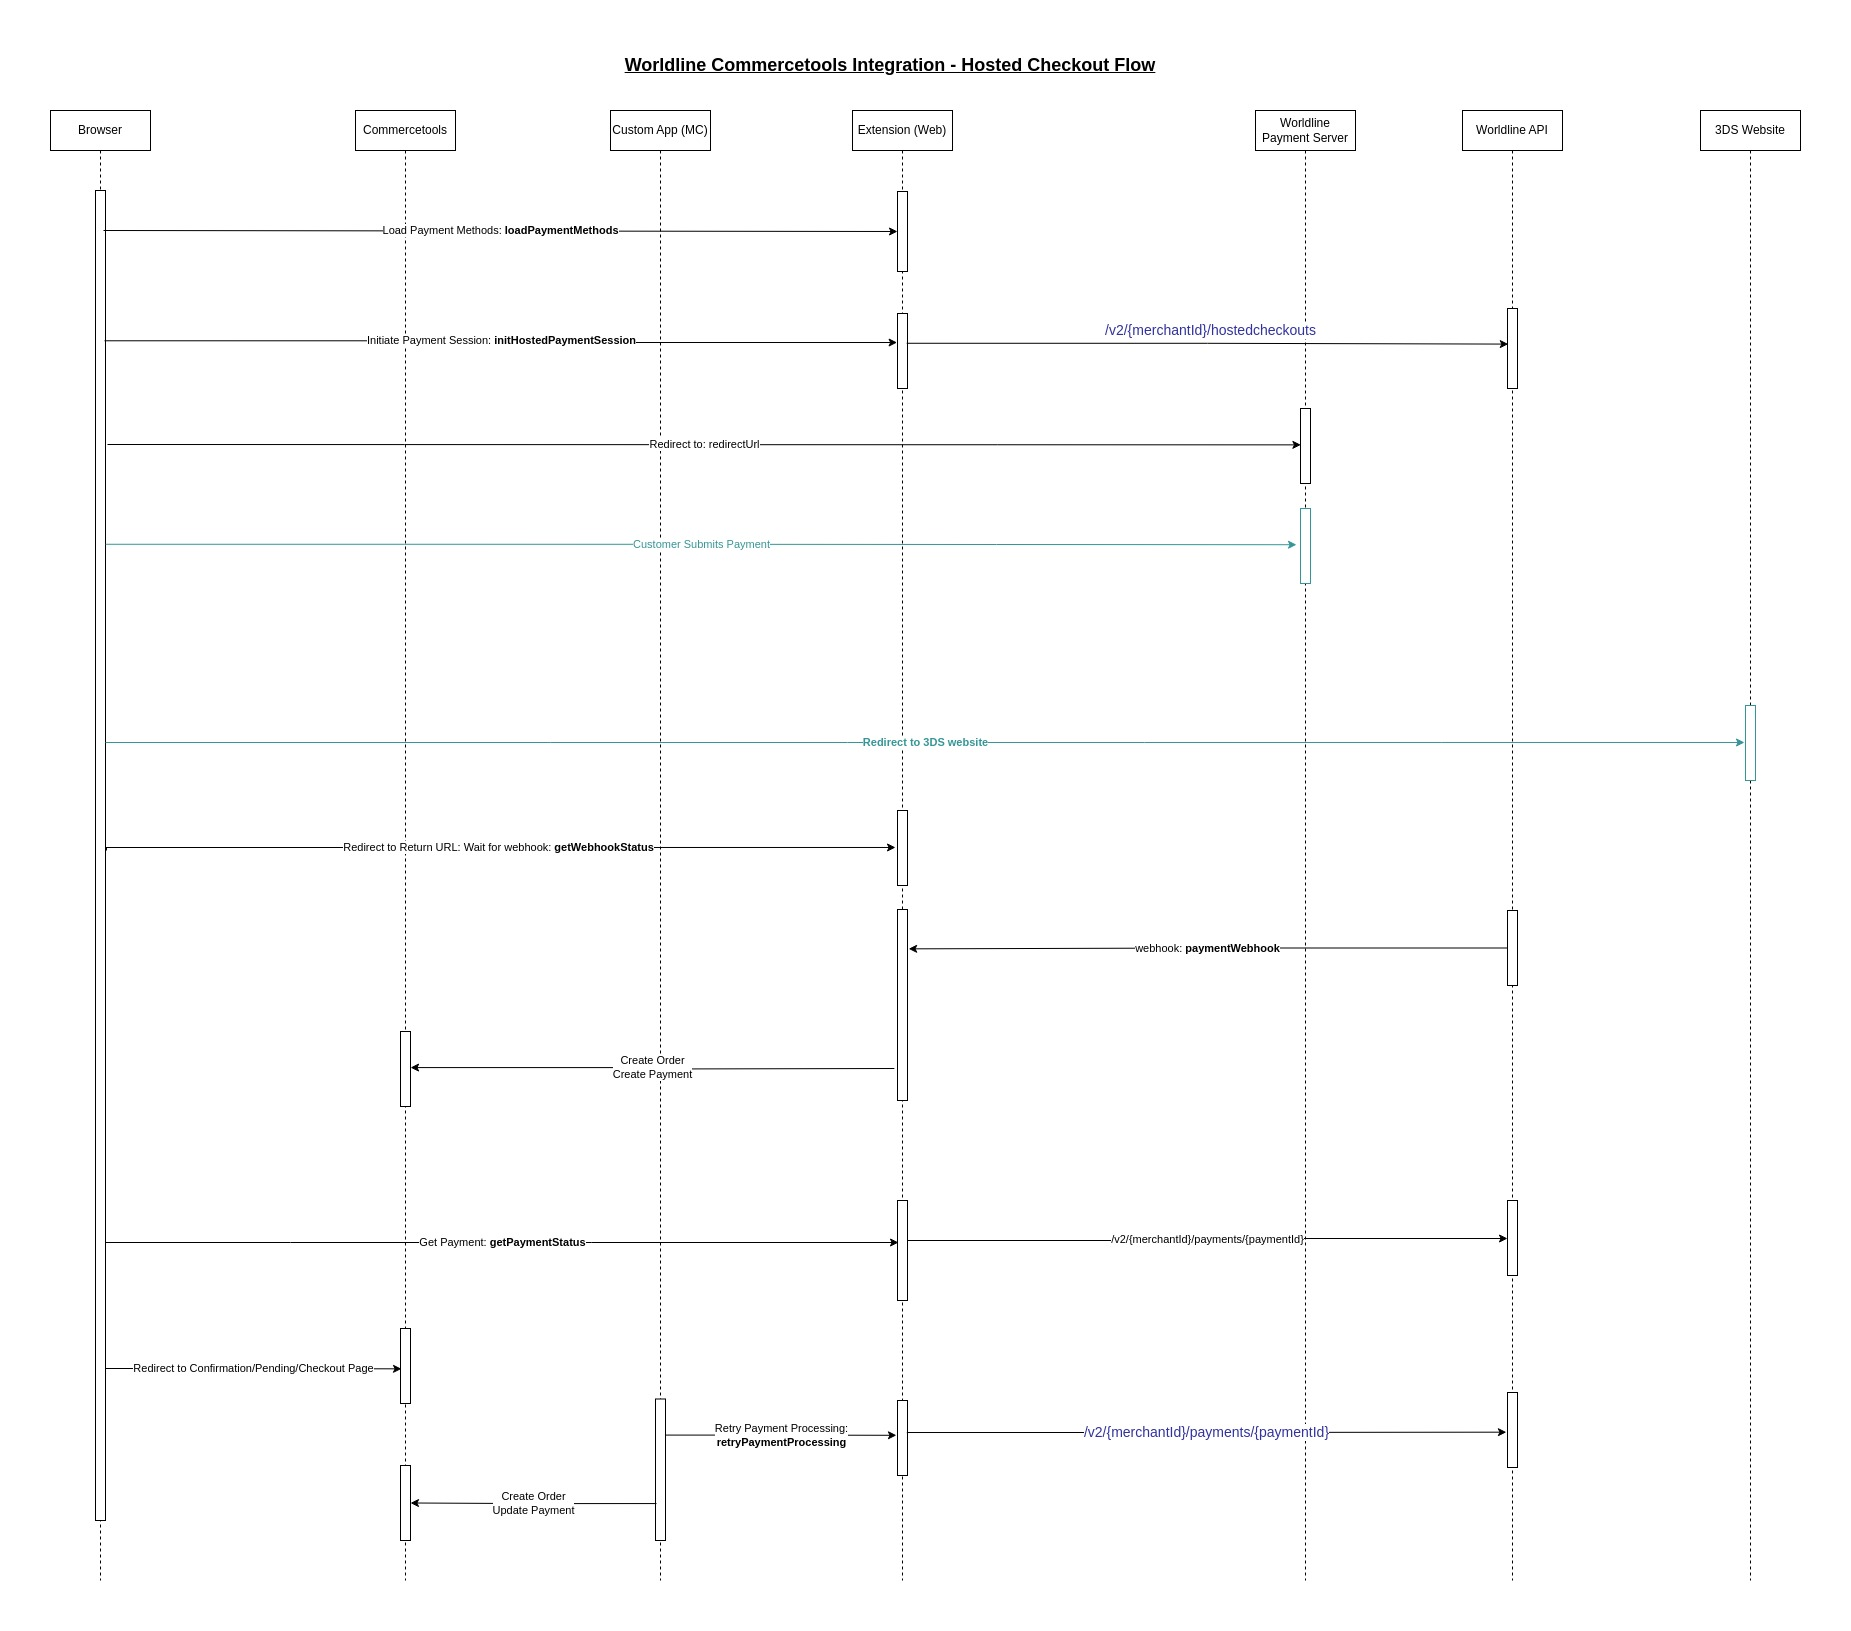
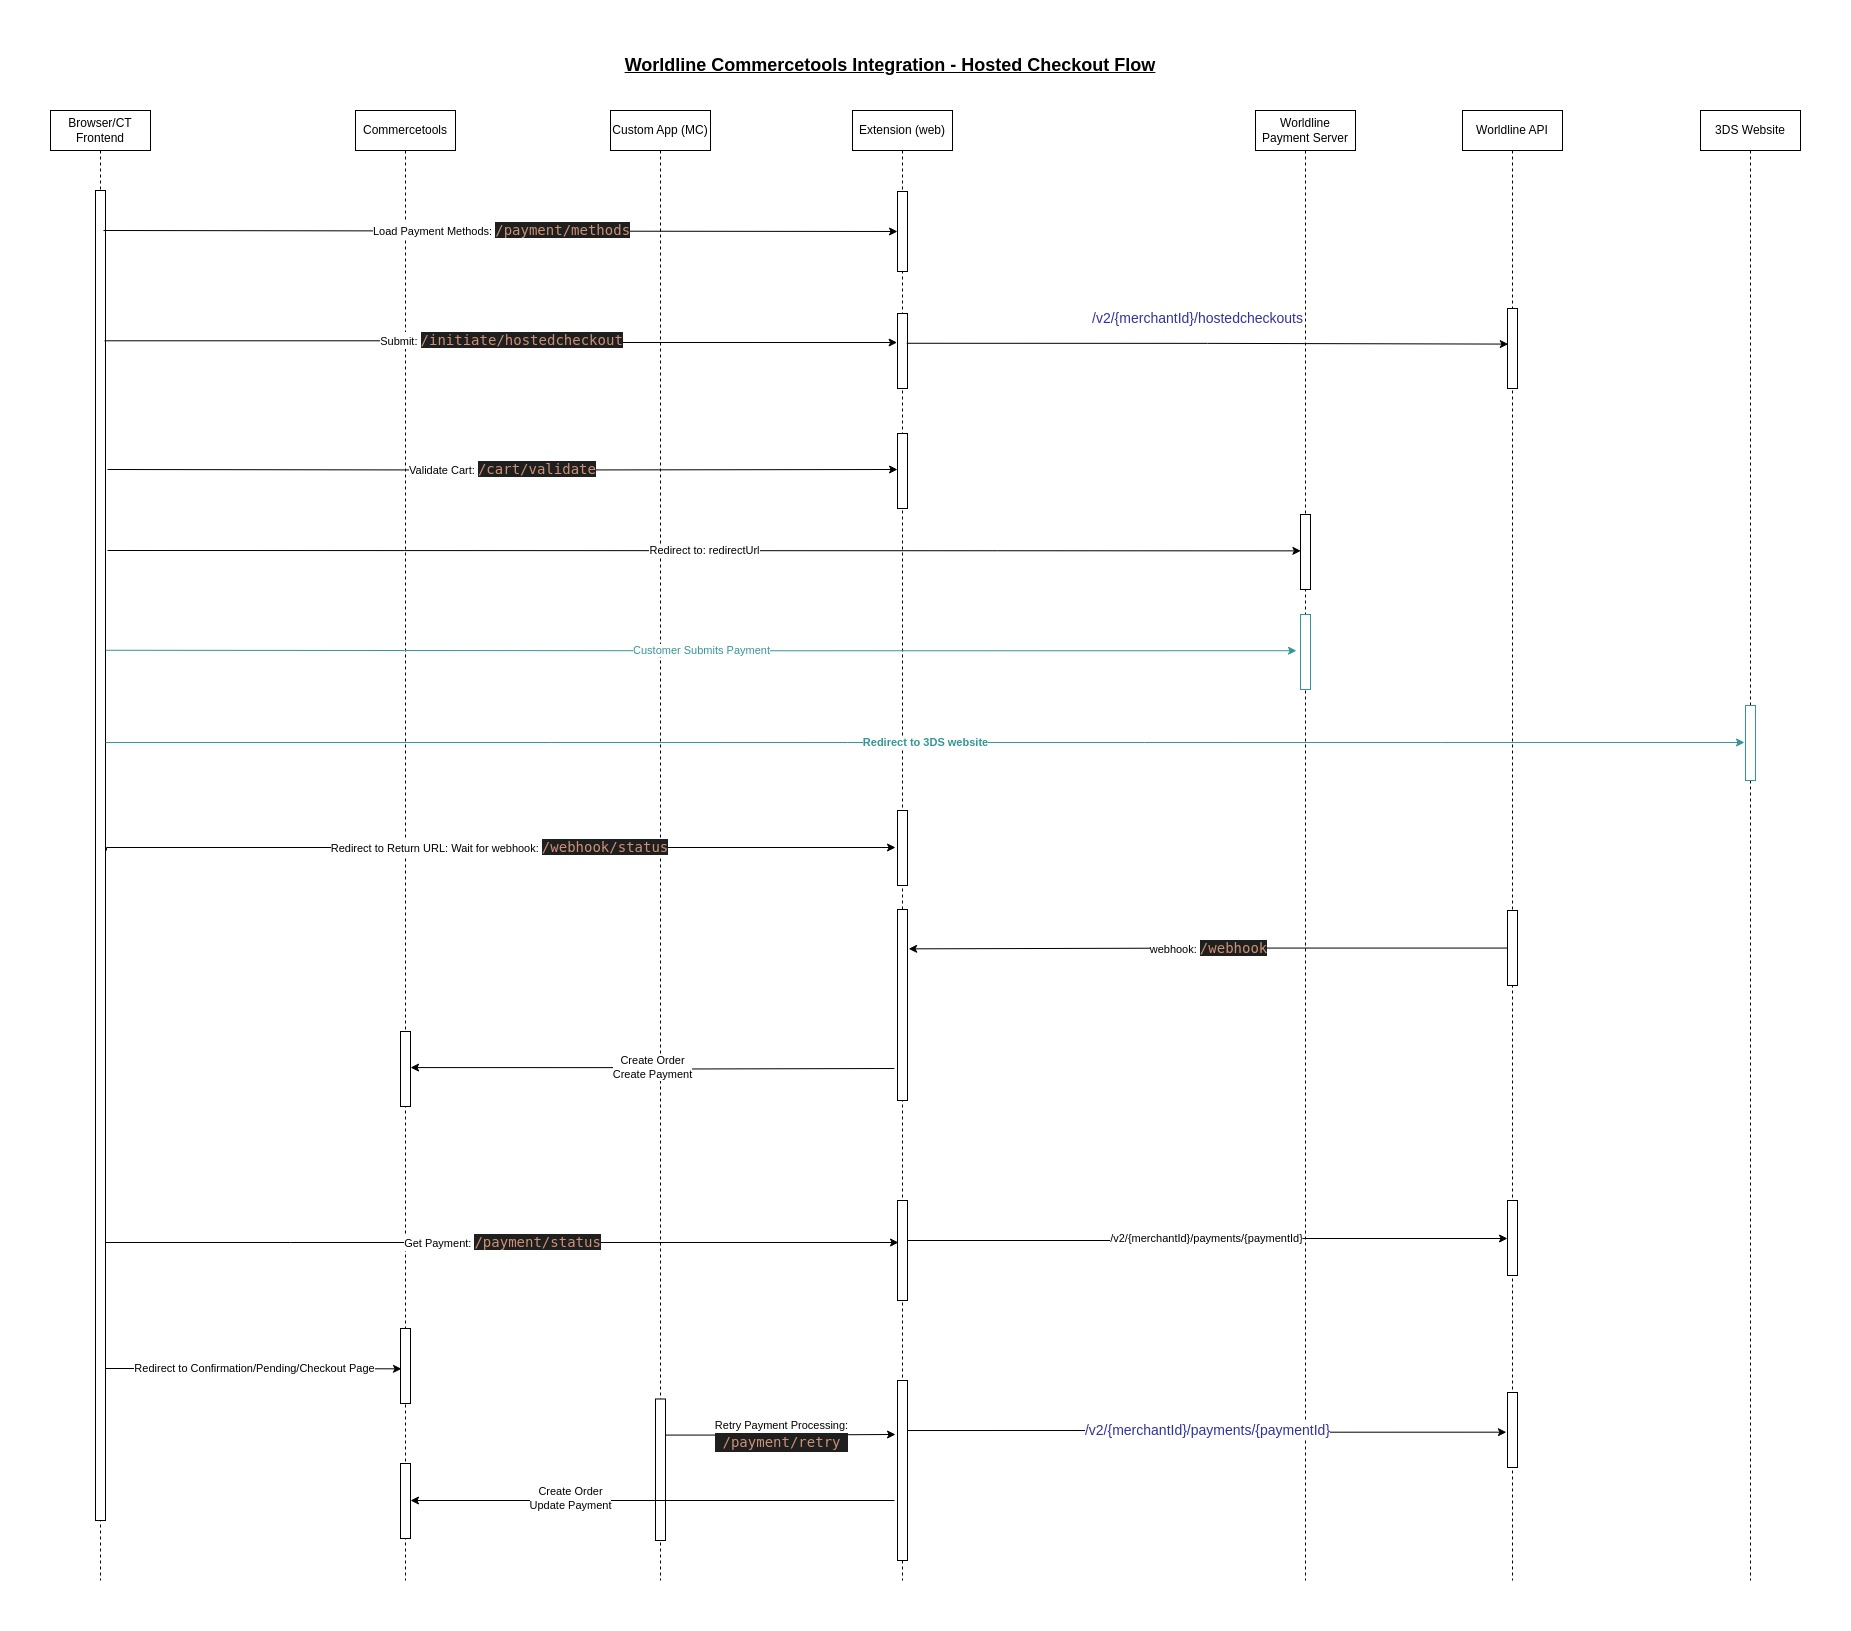
Update endpoints in sequence diagrams

diff --git a/README.md b/README.md
@@ -2,22 +2,25 @@
 
 - [Supported features](#supported-features)
 - [Overview](#overview)
-- [Merchant Center Custom App](#merchant-center-custom-app)
-- [Extension Module](#extension-module)
-- [Cron Module](#cron-module)
+- [Merchant Center Custom App (mc)](#merchant-center-custom-app)
+- [Extension Module (web)](#extension-module)
+- [Cron Module (cron)](#cron-module)
+- [Common Modules ](#common-modules)
 - [Store front](#store-front)
 
 ## Supported features
 
 The following features are supported by the Integration:
 
-- Added as a Custom Application through Merchant Center.
-- Custom orders list
-- App configuration
+- Payment integration with Hosted Tokenization and Hosted Checkout.
+- Custom Application through Merchant Center.
+    - Payment configuration page
+    - Orders list page
 - Handle Webhooks
 - Capture a Payment
 - Refund a Payment
 - Void a Payment
+- Deployment with docker
 
 ## Overview
 
@@ -25,7 +28,7 @@ The following features are supported by the Integration:
 
 ## Merchant Center Custom App
 
-The mc-custom-app module is Commercetool's Custom App. It is a react application generated using the Commercetools framework Frontastic and has to be hosted in Commercetools server. Once The url of the Custom App is registered in the Merchant Center and Menu to access the page will show up in the left navigation.
+The mc module is Commercetool's Custom App present in [mc](/mc/) folder. It is a react application generated using the Commercetools framework and has to be hosted by the Merchant. Once The url of the Custom App is registered in the Merchant Center and Menu to access the page will show up in the left navigation.
 
 ![Worldline Merchant Center Custom App](/docs/images/MC-Custom-App.png "Worldline Custom App")
 
@@ -34,20 +37,31 @@ The mc-custom-app module is Commercetool's Custom App. It is a react application
 
 ## Extension Module
 
-This module contains the frontend integrations with Worldline. It provides APIs to interact with the Store front. It also has API to handle webhook calls from Worldline.
+This module contains the frontend integrations with Worldline is present in [web](/web/) folder. It provides APIs to interact with the Store front. It also has API to handle webhook calls from Worldline.
 
 - Refer to [Integration Guide](/docs/extension/integrationguide.md) on how to integrate your shop with this module.
 - Refer to [How to run](/docs/extension/howtorun.md) the Extension module.
 
 ## Cron Module
 
-This module contains the back office operations with Worldline. This module provide background operations to handle Review payment app, Capture operation based on App configuration.
+This module contains the scheduled operations with Worldline is present in [cron](/cron/) folder. This module provide background operations to handle Review payment app, automatic Capture operation based on App configuration.
 
 - Refer to [Integration Guide](/docs/cron/integrationguide.md) on how to integrate your shop with this module.
 - Refer to [How to run](/docs/cron/howtorun.md) the Extension module.
 
+## Common Modules
+
+Following modules are commonly used by both Extension (web) module and Cron module:
+ - [app](/app/) - contains the application logic. Only web (extension) and cron modules has dependency of app module.
+ - [util](/util/) - contains common utilities and is dependency in all other modules.
+ - [ct](/ct/) - contains integration code with Commercetools and is dependency in only app module.
+ - [db](/db/) - contains database access code and is dependency in only app module.
+ - [psp](/psp/) - contains integration code with Worldline Payment Service Provider APIs and is dependency in only app module.
+
 ## Store front
 
-Each merchant will have their own implementation of Storefront in their choice of technology. We have used the storefront framework provided by Commercetools, the [Frontastic](https://github.com/FrontasticGmbH) for the integration. 
+Each merchant will have their own implementation of Storefront in their choice of technology. We have used the storefront framework provided by Commercetools, [Commercetools Frontend](https://docs.commercetools.com/frontend-getting-started) for the integration.
 
-Commercetools Frontastic is a front-end platform designed to work with the commercetools commerce platform. It provides a flexible and scalable framework for building modern, high-performance web and mobile storefronts
+Commercetools Frontend is a front-end platform designed to work with the commercetools commerce platform. It provides a flexible and scalable framework for building modern, high-performance web and mobile storefronts.
+
+Merchant has to develop their own frontend integration that interact with the Extension (web) module.

diff --git a/docs/extension/integrationguide.md b/docs/extension/integrationguide.md
@@ -1,6 +1,6 @@
 # Extension Module Integration Guide
 
-The Extension module interacts with the Store front and Worldline for integration. The flows are depicted in following diagrams:
+The Extension module interacts with the Store front and Worldline for integration. The flows with API endpoints are depicted in below diagrams.
 
 ## Overall Architecture
 
@@ -20,3 +20,7 @@ The Extension module interacts with the Store front and Worldline for integratio
 ## Backoffice Flow
 
 ![Backoffice](/docs/extension//images/BackOffice.jpg "Backoffice")
+
+## Me endpoints
+
+The integrations depicted here are using endpoints that need a CT admin token. For each of these API endpoints, there is equivalent 'me' endpoints which starts with '/me/...'. These endpoints can be used if the Headless storefront uses customer token is used.

diff --git a/docs/extension/howtorun.md b/docs/extension/howtorun.md
@@ -9,5 +9,4 @@ Follow the steps:
   - manage_types
 
 - Configure environment variables in the cloud environment where you are deploying the docker. Use [.env-sample](/web/.env-sample) as reference.
-- Deploy your application using one of the following methods:
-  - Build and Deploy the docker file [Dockerfile.web](Dockerfile.web)
+- Deploy your application by using the docker file [Dockerfile.web](Dockerfile.web)
